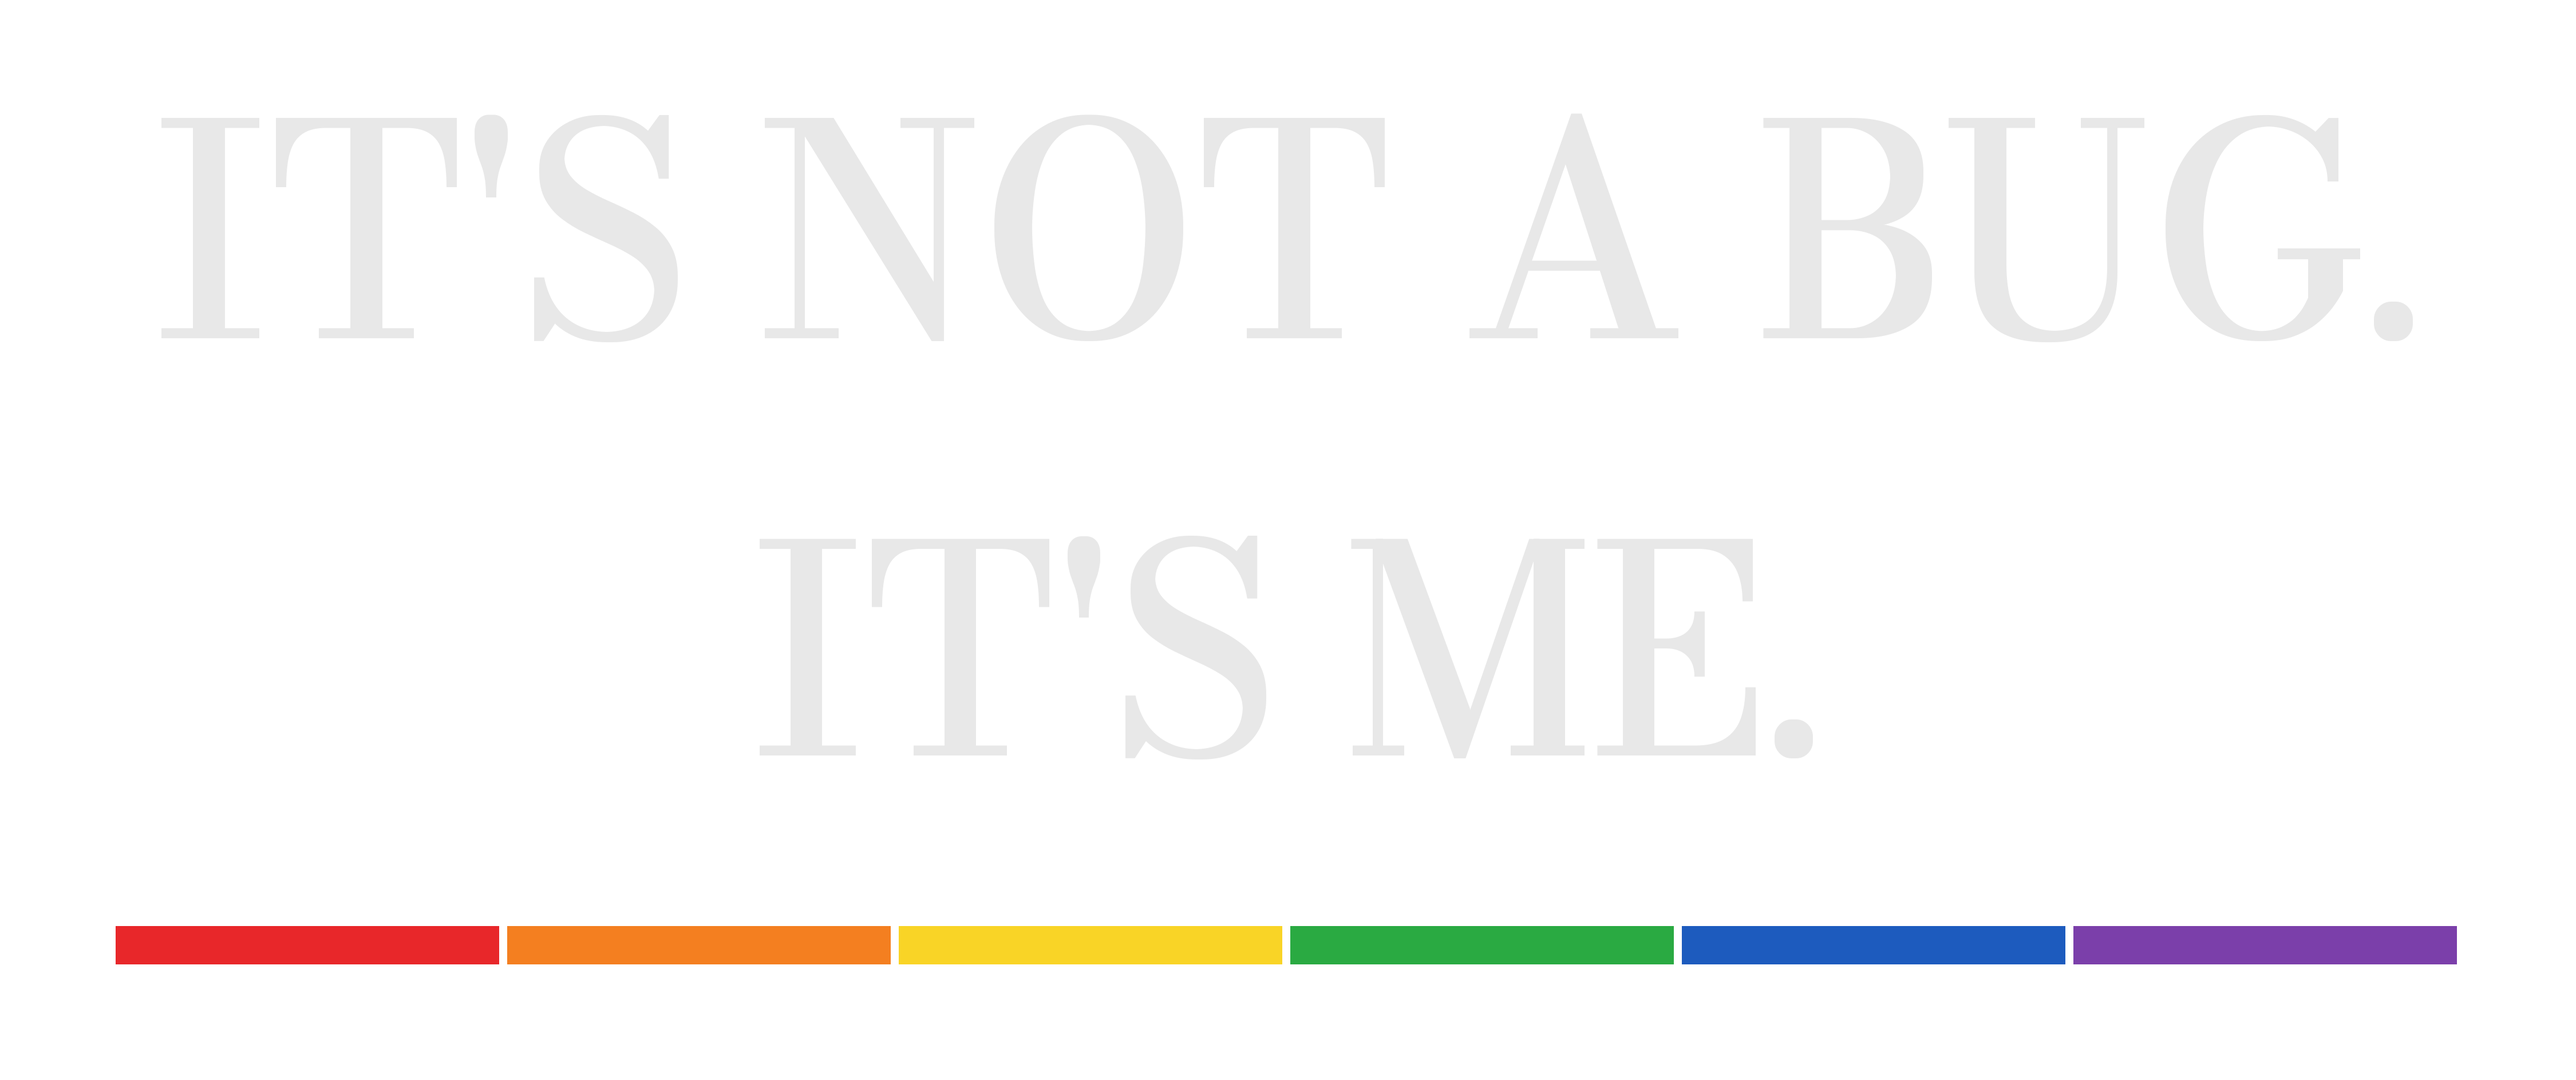
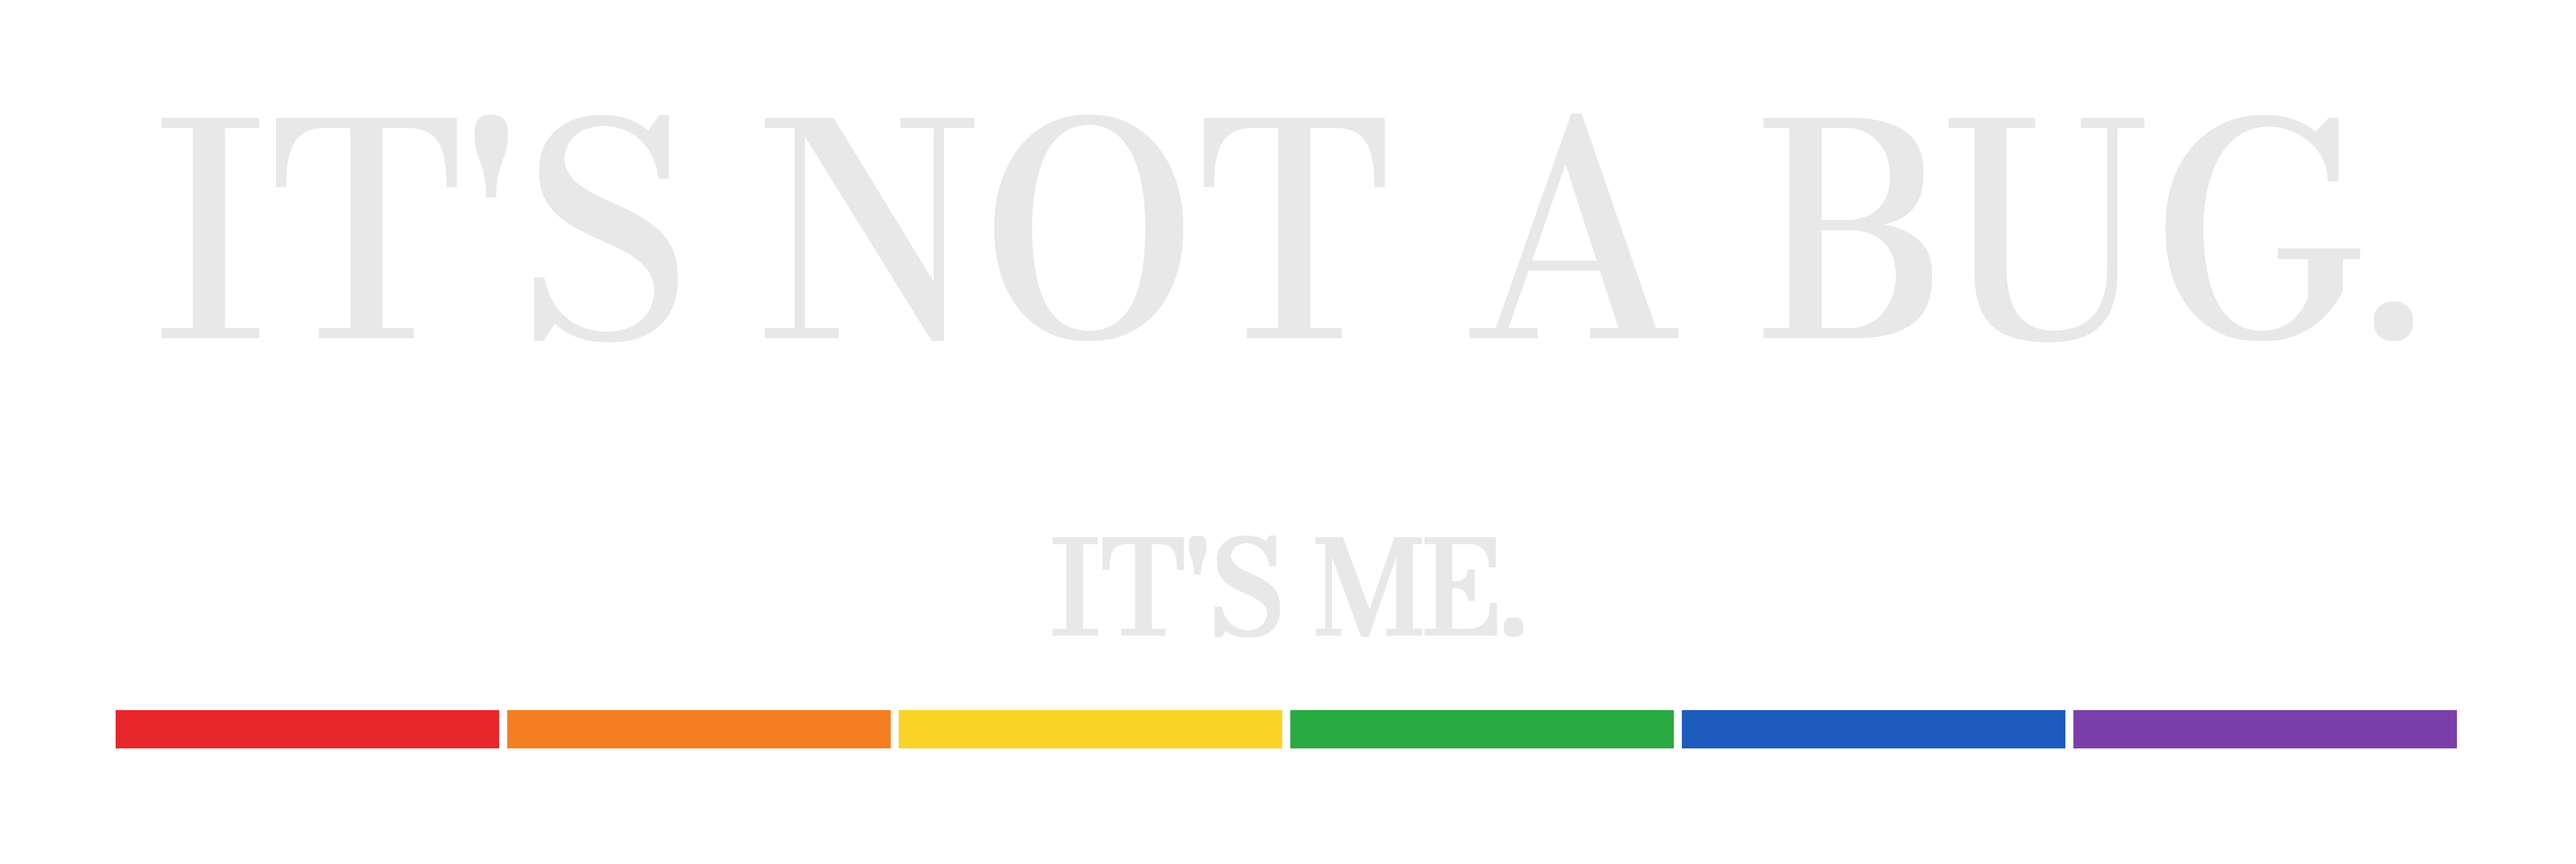
Fix It's Not a Bug/It's Me line-2 sizing on sticker + apparel masters
Both the sticker-final-system tagline and the apparel-4500 master for
"IT'S NOT A BUG. IT'S ME." rendered line 2 at ~98% of line 1's size
(no visible hierarchy). Root cause: make_print_file.py fits line2 to a
fixed width fraction (l2_w=0.4710) of L; the resulting size ratio also
scales with len(line1)/len(line2), and for this phrase line2 (8 chars)
has just over half of line1's characters (15), so the width-fit and
character-count ratios roughly cancel out. This is inherent to the
default formula for this specific phrase, not file corruption — PR #17
regenerated both masters from the same default and did not change the
outcome.

Added an opt-in --l2-w CLI override (mirrors the existing --l2-y
pattern) and regenerated both masters at l2-w=0.21, landing the ratio
at ~0.45 to match the tool's own already-correct outputs (deploying-
identity-v2 0.40, code-it-serve-it 0.44). Verified every other design
regenerates byte-identical with no flag passed, so the default path is
unchanged for every other call site. Re-ran validate_sticker_final_system.py
to refresh manifest.json's recorded dimensions/bbox for the corrected file.

No Printify/Shopify publish or sync performed.

Claude-Session: https://claude.ai/code/session_01S6pqCACHud1a6pFUK2za2B

Changed region(s): [[0.0311, 0.8093, 0.9644, 0.9026]]

diff --git a/tools/make_print_file.py b/tools/make_print_file.py
@@ -135,7 +135,7 @@ GAP_L2_BAR_OF_L2_SIZE = 1.3758
 
 
 def build(line1, line2, out, label=None, width=4500, margin_frac=0.045,
-          ink="light", product="apparel", l2_y=None):
+          ink="light", product="apparel", l2_y=None, l2_w=None):
     from PIL import Image, ImageFont
 
     serif = font_path("Bodoni Moda", None, "BodoniModa-Regular.ttf")
@@ -143,6 +143,16 @@ def build(line1, line2, out, label=None, width=4500, margin_frac=0.045,
     col = {k: tuple(int(v.lstrip("#")[i:i + 2], 16) for i in (0, 2, 4)) for k, v in ink_hex.items()}
     wordmark = product == "sticker"
     src = dict(SRC)
+    # l2_w is a width-fit *target*, not a size ratio: fitting line2 to a fixed
+    # fraction of L only shrinks it relative to line1 by roughly
+    # (l2_w/l1_w)*(len(line1)/len(line2)). For phrase pairs where line2 has
+    # much less than half of line1's characters (e.g. "IT'S NOT A BUG." / 15
+    # chars vs "IT'S ME." / 8 — just over half), the default l2_w=0.4710 lands
+    # line2's font size within a few percent of line1's: no visible hierarchy,
+    # even though the tagline is a big-statement/small-punchline pair. --l2-w
+    # overrides the target for that one call; every other design keeps 0.4710.
+    if l2_w is not None:
+        src["l2_w"] = l2_w
 
     # The bar is the widest element, so it sets the usable width.
     L = width * (1 - 2 * margin_frac) / src["bar_w"]
@@ -214,7 +224,13 @@ if __name__ == "__main__":
                         "By default this is computed automatically from line-1's rendered "
                         "font size so spacing self-adjusts per tagline — only pass this to "
                         "force a specific position.")
+    p.add_argument("--l2-w", type=float, default=None,
+                   help="manual override for line-2's width-fit target (fraction of L, "
+                        "default 0.4710). The resulting size ratio also depends on "
+                        "len(line1)/len(line2), so lower this when line2 has much less "
+                        "than half of line1's character count and the default produces "
+                        "little or no visible size difference.")
     a = p.parse_args()
     w, h = build(a.line1, a.line2, a.out, label=a.label, width=a.width,
-                 ink=a.ink, product=a.product, l2_y=a.l2_y)
+                 ink=a.ink, product=a.product, l2_y=a.l2_y, l2_w=a.l2_w)
     print(f"wrote {a.out}  {w}x{h}  RGBA 300dpi  ink={a.ink}  product={a.product}")

diff --git a/CHANGELOG.md b/CHANGELOG.md
@@ -14,3 +14,7 @@ Note: gated on fixing product imagery first — Shop app is a pure image grid wi
 2026-09-08 Regenerated 4 apparel print masters (bug/code-it/deploying-identity/off-the-clock) via tools/make_print_file.py.
 Why: 2026-08-27's "equal-visual-cap" pass had silently overwritten make_print_file.py's tuned small-line2 lockup; line2 is punchline/payload and reads deadpan only when smaller, per make_print_file.py's own l2_w=0.4710 spec.
 Note: sticker-final-system-2026-08-27/manifest.json now describes a superseded state for these 4 slugs; not touched. No Printify/Shopify sync performed.
+
+2026-09-09 Fixed "It's Not a Bug. It's Me." line-2 sizing on both the sticker (final-system) and apparel-4500 masters, via new --l2-w override in tools/make_print_file.py; regenerated sticker-final-system manifest.json.
+Why: default l2_w=0.4710 gave this phrase a ~0.98 size ratio (no visible hierarchy) because line2 has just over half of line1's character count — mathematically inherent to the width-fit formula, not a corruption; PR #17's restoration used the same default and did not fix it. --l2-w is opt-in per call; all other designs verified byte-identical.
+Note: no Printify/Shopify sync performed.
